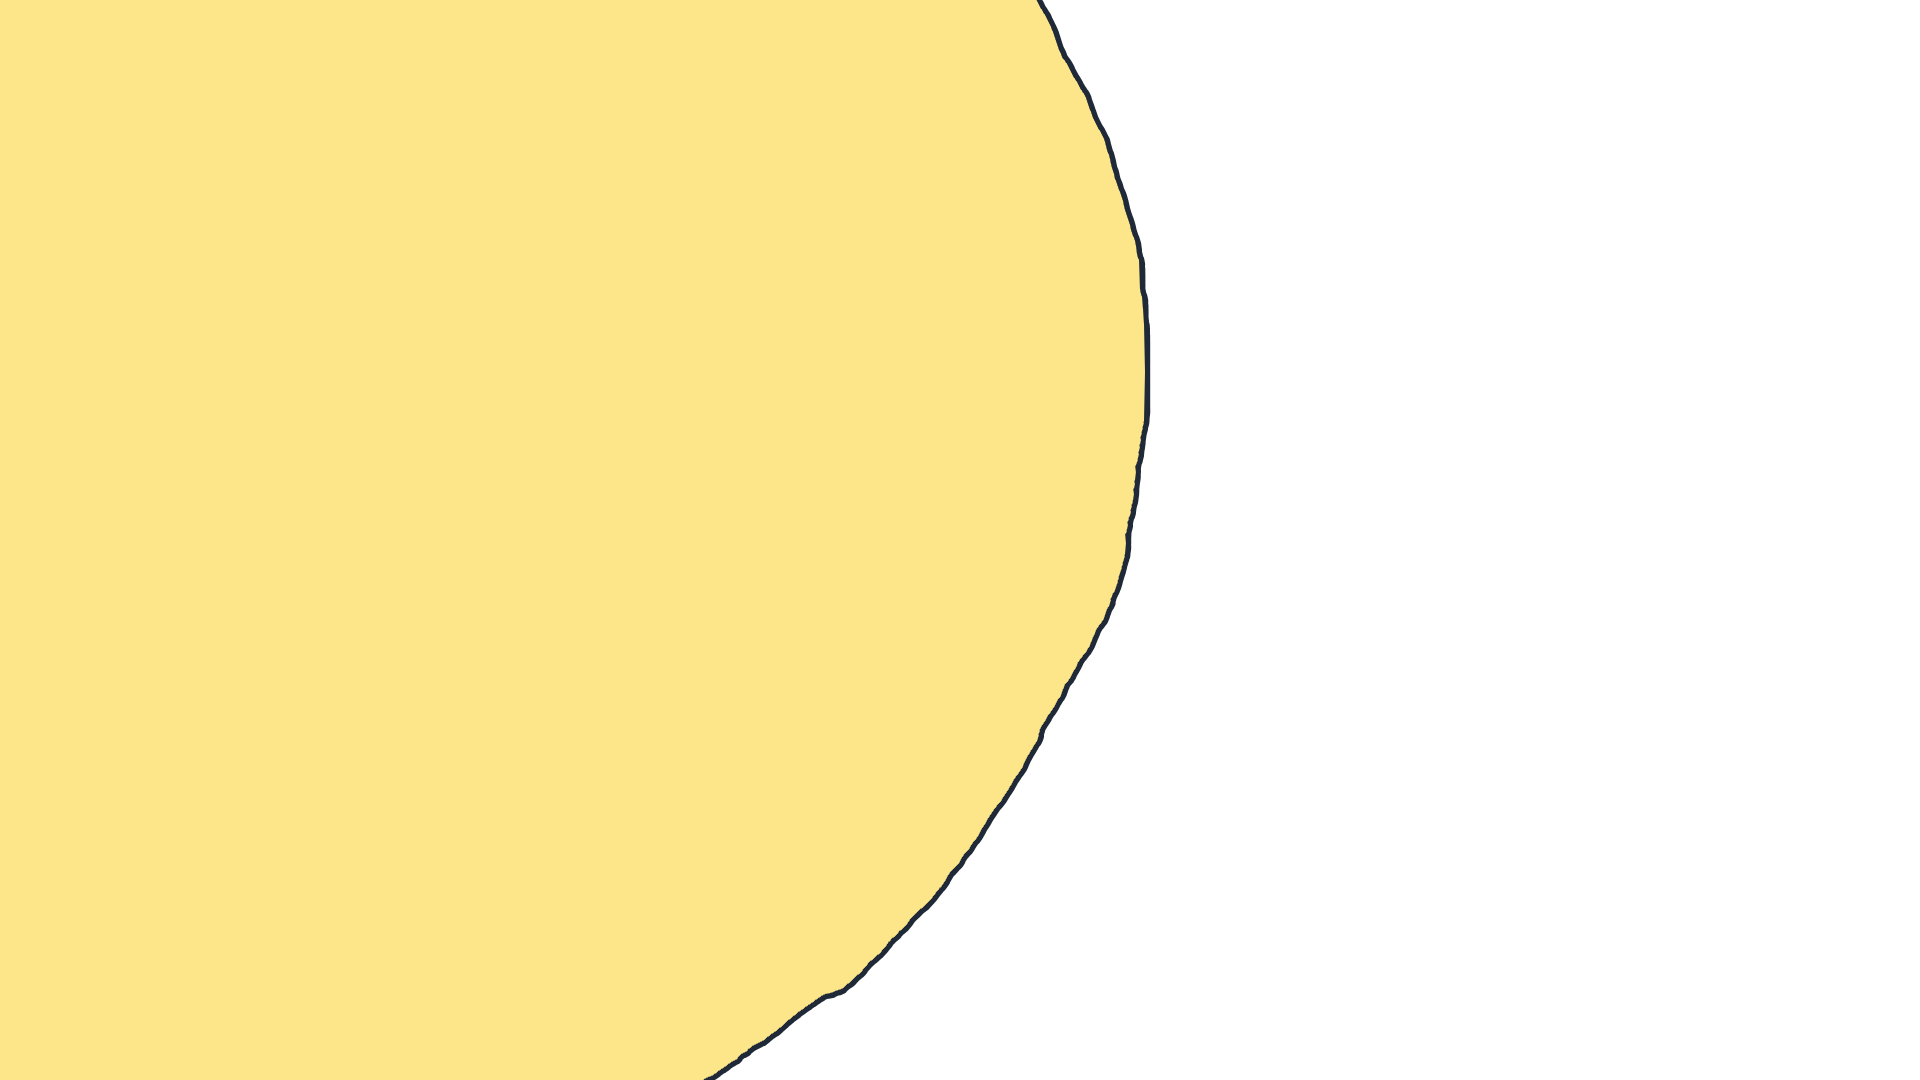
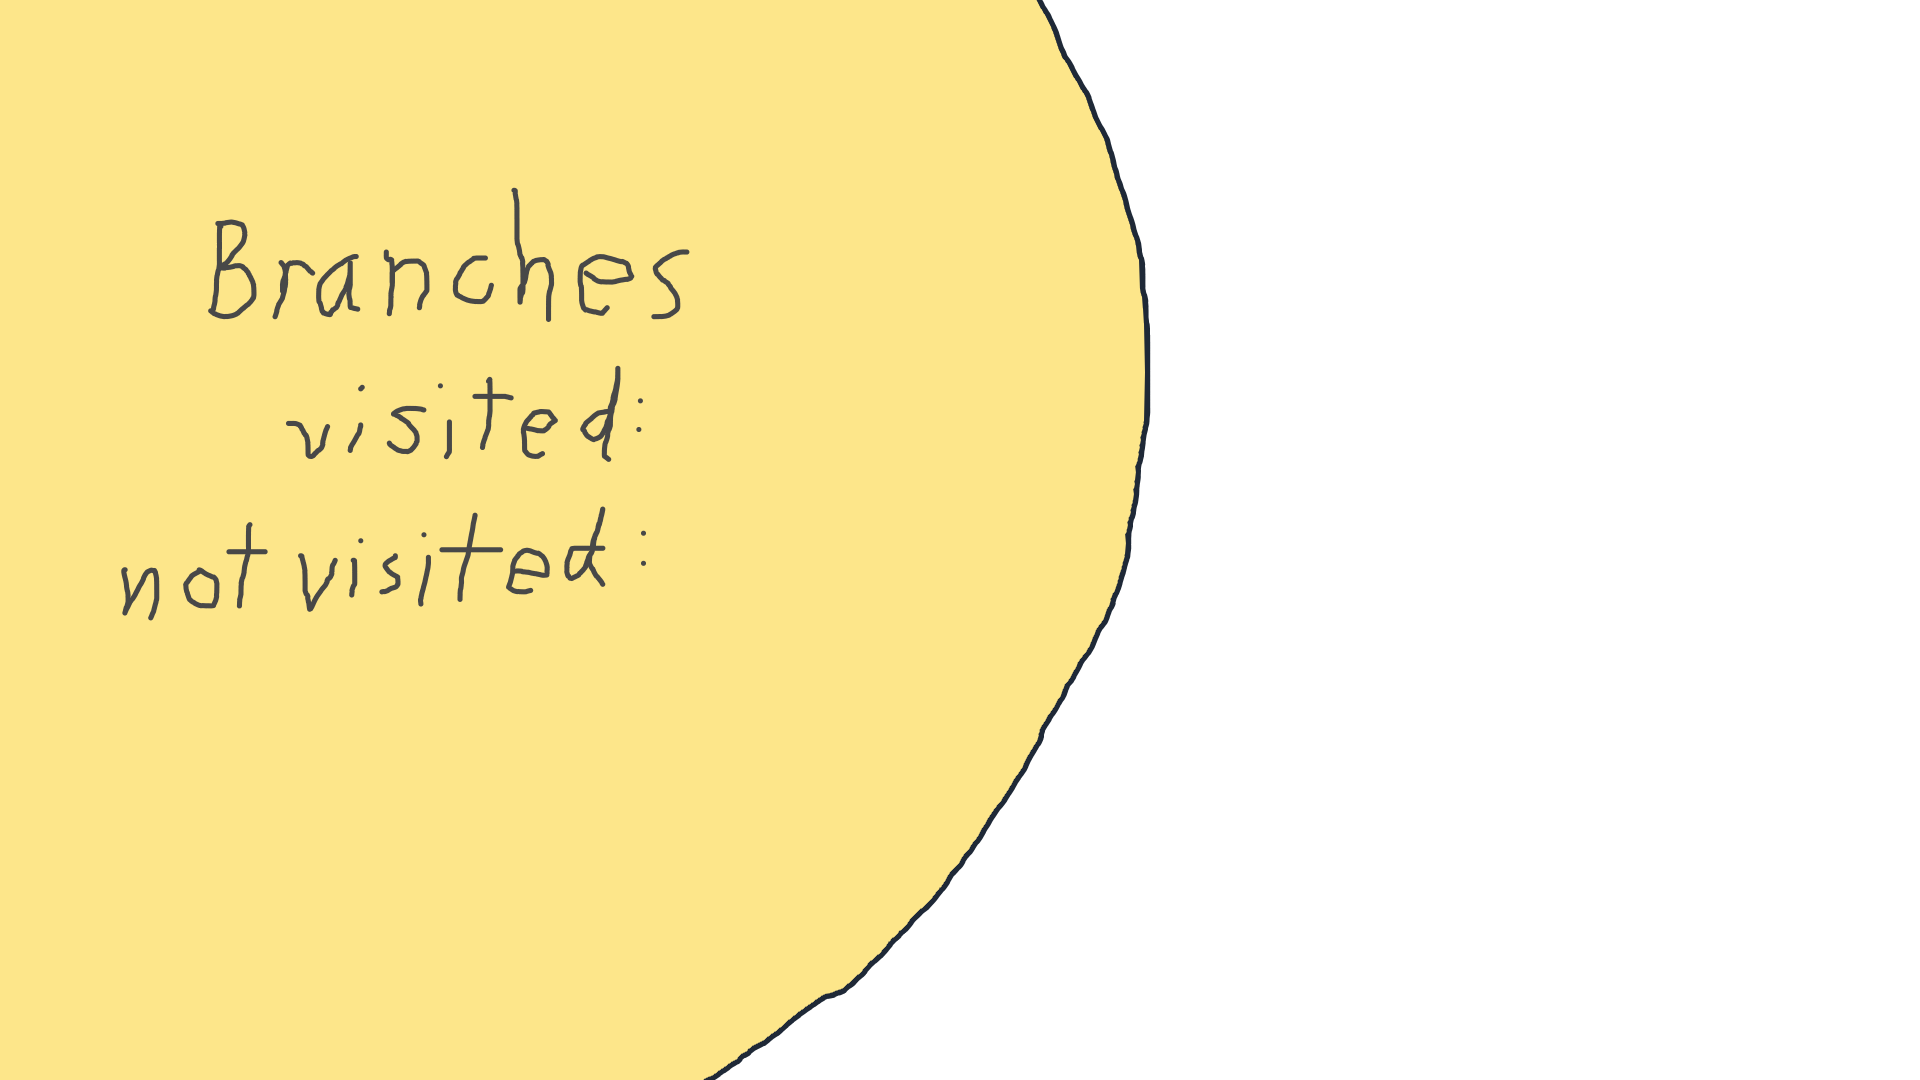
X

diff --git a/docs/root/index.js b/docs/root/index.js
@@ -1,17 +1,17 @@
 import '../canvasapp.js';
 
-// const digits = [ 
-// 	g_frames(i_0), 
-// 	g_frames(i_1), 
-// 	g_frames(i_2), 
-// 	g_frames(i_3), 
-// 	g_frames(i_4), 
-// 	g_frames(i_5), 
-// 	g_frames(i_6), 
-// 	g_frames(i_7), 
-// 	g_frames(i_8), 
-// 	g_frames(i_9) 
-// ];
+const digits = [ 
+	g_frame(i_0), 
+	g_frame(i_1), 
+	g_frame(i_2), 
+	g_frame(i_3), 
+	g_frame(i_4), 
+	g_frame(i_5), 
+	g_frame(i_6), 
+	g_frame(i_7), 
+	g_frame(i_8), 
+	g_frame(i_9) 
+];
 
 const open_reset_all      = g_touch(g_circle(1905,  46, 100 ));
 const ok_reset_all        = g_touch(g_circle(1405, 308, 194 ));
